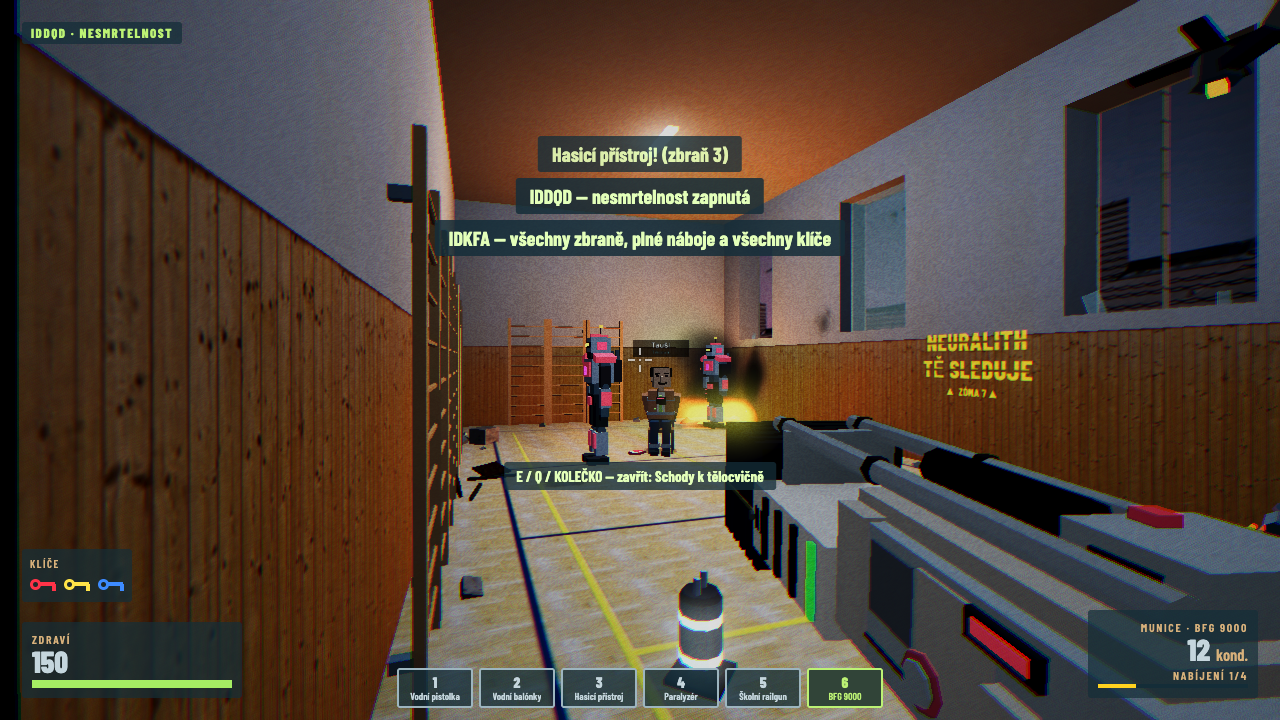
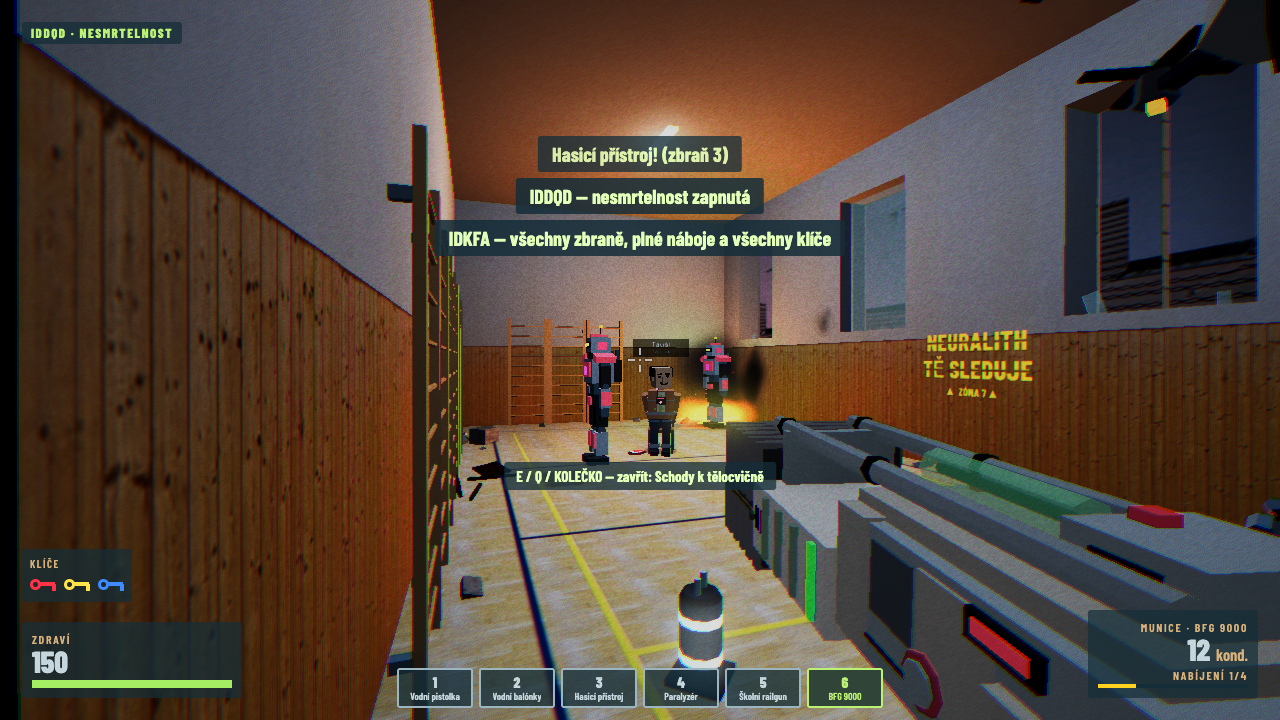
FEEDBACK: BFG unlit ribs grey-green, muzzle block grey ribbed plastic, the top tube is translucent glass that greens with every lit rib

diff --git a/src/weapons/Bfg9000.ts b/src/weapons/Bfg9000.ts
@@ -58,7 +58,8 @@ interface BlastInfo {
  * fire charges it in stages of `params.stageTime` s, one capacitor of the reserve shared with the railgun (`ammoType`)
  * per stage, up to `params.maxStages` — or fewer when the reserve holds fewer (the charge stops there, a deny click
  * plays, the extra ribs stay dark). The four ribs of the front block light up one per stage, back to front (the rib
- * charging ramps up, completed ones stay lit); the core in the muzzle glows with the charge, a rising whine plays per stage
+ * charging ramps up, completed ones stay lit); the core in the muzzle glows with the charge, the glass tube on top
+ * turns greener with every lit rib, a rising whine plays per stage
  * and the gun trembles more with every stage. Release fires a plasma ball (`PlasmaBalls`) of the completed stages n,
  * spending n capacitors; released before the first stage nothing fires and nothing is spent. Fully charged it waits,
  * pulsing softly (no overcharge). Switching weapons cancels the charge. The ball flies straight until it strikes
@@ -66,16 +67,17 @@ interface BlastInfo {
  * it and within `params.empVertical` m of its height (the same floor; walls do not stop it) takes `damage` electric —
  * enough for any robot on any difficulty — and robots farther out up to `params.stunRadiusN` freeze for
  * `params.stunSeconds`. The player and the teachers are never hurt. After a shot a short cooldown (1 / `fireRate`)
- * with the ribs and the core dark; then a chime (`sounds.ready`).
+ * with the ribs, the core and the tube dark; then a chime (`sounds.ready`).
  */
 export class Bfg9000 extends Weapon {
   private readonly balls: PlasmaBalls;
   private readonly blast: EmpBlast;
   private readonly effect: EffectData;
-  /** Glow colour of the ribs and the core (`effect.partColor`, else the ball's colour). */
+  /** Glow colour of the ribs, the core and the tube (`effect.partColor`, else the ball's colour). */
   private readonly partColor: string;
   private readonly core: Glowing;
   private readonly ribs: Glowing[];
+  private readonly tube: Glowing;
   private readonly shakeRandom: Random;
   private readonly stageTime: number;
   private readonly maxStages: number;
@@ -88,6 +90,7 @@ export class Bfg9000 extends Weapon {
   private readonly stunStrength: number;
   private readonly ribGlow: number;
   private readonly coreGlow: number;
+  private readonly tubeGlow: number;
   private readonly idleGlow: number;
   private readonly fullPulse: number;
   private readonly glowFade: number;
@@ -131,6 +134,7 @@ export class Bfg9000 extends Weapon {
     this.stunStrength = param("stunStrength");
     this.ribGlow = param("ribGlow");
     this.coreGlow = param("coreGlow");
+    this.tubeGlow = param("tubeGlow");
     this.idleGlow = param("idleGlow");
     this.fullPulse = param("fullPulse");
     this.glowFade = param("glowFade");
@@ -163,6 +167,7 @@ export class Bfg9000 extends Weapon {
     let index = 0;
     this.core = this.ownMaterial(model.core, index++);
     this.ribs = model.ribs.map((mesh) => this.ownMaterial(mesh, index++));
+    this.tube = this.ownMaterial(model.tube, index++);
     this.ribLevels = this.ribs.map(() => 0);
     this.updateGlow();
   }
@@ -278,7 +283,7 @@ export class Bfg9000 extends Weapon {
   override dispose(): void {
     this.balls.dispose();
     this.blast.dispose();
-    for (const { material } of [this.core, ...this.ribs]) material.dispose();
+    for (const { material } of [this.core, ...this.ribs, this.tube]) material.dispose();
     super.dispose();
   }
 
@@ -463,15 +468,20 @@ export class Bfg9000 extends Weapon {
     }
   }
 
-  /** Applies the shown glow; a held full charge (or the reserve's cap) pulses softly. */
+  /**
+   * Applies the shown glow: it replaces the part's own grey-green glow as it rises (a lit rib is clean green, not
+   * green on grey); a held full charge (or the reserve's cap) pulses softly.
+   */
   private updateGlow(): void {
     const t = this.context.game.simulatedTimeMs / MS_PER_SECOND;
     const waiting = this.charging && this.completed >= this.cap;
     const pulse = waiting ? 1 + this.fullPulse * Math.sin(t * FULL_PULSE_RATE) : 1;
     const apply = ({ material, base }: Glowing, level: number, full: number): void => {
-      material.emissiveColor = level > 0 ? base.add(PaletteColor.emissive(this.partColor, full * level * pulse)) : base;
+      material.emissiveColor = level > 0 ? base.scale(1 - Math.min(level, 1)).add(PaletteColor.emissive(this.partColor, full * level * pulse)) : base;
     };
     apply(this.core, this.coreLevel, this.coreGlow);
     this.ribs.forEach((rib, i) => apply(rib, this.ribLevels[i]!, this.ribGlow));
+    // The tube follows the lit ribs: a quarter green per rib, the greenest at a full charge.
+    apply(this.tube, this.ribLevels.reduce((sum, level) => sum + level, 0) / this.ribLevels.length, this.tubeGlow);
   }
 }

diff --git a/src/weapons/models/Bfg9000Model.ts b/src/weapons/models/Bfg9000Model.ts
@@ -6,16 +6,18 @@ import { ModelParts } from "../../rendering/ModelParts";
 import { ModelRegistry } from "../../utils/ModelRegistry";
 
 const BLUEPRINT = "bfg9000";
-/** Parts that glow with the charge: the emitter in the muzzle and the four ribs of the charge block (back to front). */
+/** Parts that glow with the charge: the emitter in the muzzle, the four ribs of the charge block (back to front), the glass tube on top. */
 const CORE = "core";
+const TUBE = "glassTube";
 const RIBS = ["rib1", "rib2", "rib3", "rib4"];
 
 /**
  * BFG 9000 (weapon 6, FEEDBACK 2026-10-04): the side-view BFG 9000 concept — a long silver-grey receiver (side LED panel,
- * round button, top tubes over the whole length, front grip, skeleton stock), a white charge block whose four ribs
+ * round button, top tubes over the whole length with a glass tube between them, front grip, skeleton stock), a white charge block whose four ribs
  * stand proud only on its sides (green and white stripes from the side) and a big black ribbed muzzle block (blueprint
  * `bfg9000`). Parameters: variant, colour overrides, scale, light scale. Exposes the muzzle and the glowing parts — the
- * emitter core in the muzzle and the four ribs (one lights up per charge stage, back to front) — which
+ * emitter core in the muzzle, the four ribs (one lights up per charge stage, back to front) and the glass tube (greener
+ * with every lit rib) — which
  * src/weapons/Bfg9000.ts lights with the charge and darkens after a shot.
  */
 export class Bfg9000Model {
@@ -25,7 +27,9 @@ export class Bfg9000Model {
   readonly core: Mesh;
   /** The charge block's ribs, back (`rib1`) to front (`rib4`): one per charge stage. */
   readonly ribs: readonly Mesh[];
-  /** Every glowing part: the core and the ribs. */
+  /** The translucent glass tube on top: turns green with the charge. */
+  readonly tube: Mesh;
+  /** Every glowing part: the core, the ribs and the glass tube. */
   readonly glowing: readonly Mesh[];
   private readonly built: BuiltModel;
 
@@ -37,7 +41,8 @@ export class Bfg9000Model {
     this.muzzle = parts.anchor("muzzle");
     this.core = parts.part(CORE);
     this.ribs = RIBS.map((name) => parts.part(name));
-    this.glowing = [this.core, ...this.ribs];
+    this.tube = parts.part(TUBE);
+    this.glowing = [this.core, ...this.ribs, this.tube];
   }
 
   dispose(): void {

diff --git a/tests/data/weapons-data.test.ts b/tests/data/weapons-data.test.ts
@@ -75,7 +75,7 @@ test("weapons.json: phase 13 weapons carry the numbers and looks their classes r
   need("taser", ["arcAngleDeg", "maxTargets", "stunSeconds", "stunStrength"]);
   need("railgun", ["pierce", "aimAssistDeg"]);
   const stages = [1, 2, 3, 4].flatMap((n) => [`empRadius${n}`, `stunRadius${n}`, `ballSize${n}`, `ballBrightness${n}`]);
-  need("bfg9000", ["stageTime", "maxStages", ...stages, "ballSpeed", "ballRadius", "ballHitRadius", "maxFlightTime", "empVertical", "stunSeconds", "shellTime", "ribGlow", "coreGlow", "idleGlow", "glowFade"]);
+  need("bfg9000", ["stageTime", "maxStages", ...stages, "ballSpeed", "ballRadius", "ballHitRadius", "maxFlightTime", "empVertical", "stunSeconds", "shellTime", "ribGlow", "coreGlow", "tubeGlow", "idleGlow", "glowFade"]);
   for (const id of ["extinguisher", "taser", "railgun", "bfg9000"]) assert.ok(WeaponConfig.weapon(id).effect !== undefined, `${id} needs an effect block`);
   for (const id of ["waterBalloons", "extinguisher"]) assert.ok(WeaponConfig.weapon(id).stream !== undefined, `${id} needs a stream block`);
 

diff --git a/src/weapons/WeaponConfig.ts b/src/weapons/WeaponConfig.ts
@@ -90,7 +90,7 @@ export interface StreamData {
 export interface EffectData {
   color: string;
   colorEnd: string;
-  /** Colour of the weapon's own glowing parts (the BFG's ribs and core); `color` when omitted. */
+  /** Colour of the weapon's own glowing parts (the BFG's ribs, core and glass tube); `color` when omitted. */
   partColor?: string;
   /** Colour multiplier of the particles (above 1 reaches the bloom threshold). */
   glow: number;

diff --git a/FEEDBACK.md b/FEEDBACK.md
@@ -133,3 +133,5 @@ Zapracováno 2026-10-04 (nový model z primitiv 940 trojúhelníků: široké te
 
 Zapracováno 2026-10-04 (nový model z primitiv 940 trojúhelníků podle bočního pohledu konceptu: dlouhé stříbrošedé pouzdro se šedým bočním panelem, červeným LED panelem, kulatým tlačítkem s červeným prstencem a zadní sponou, nahoře mířidlový blok a dvě trubky přes celou délku s černým válcem mezi nimi, vespod rukojeť a přední rukojeť s rýhami ///, vzadu kostrová pažba; před pouzdrem bílý nabíjecí blok, z jehož boků vystupují čtyři žebra — zelené a bílé pruhy, které se rozsvěcují po jednom; vpředu velký černý žebrovaný blok ústí s mosaznými tyčkami a oválným otvorem; zelené kapsle nahoře (průduchy) jsou pryč, nabití ukazují jen boční pruhy (a jádro v ústí); v ruce je zbraň víc vpravo s běžným natočením, míří dopředu a levý bok s tenkými, řídce rozmístěnými pruhy je vidět; snímky `screenshots/bfg-look-0.png`, `bfg-look-2.png`, `bfg-look-4.png`, `bfg-look-gallery.png`, `bfg-charge-1.png` … `bfg-charge-4.png`; testy `model-budget.spec.ts`, `bfg.spec.ts`, `weapons-all.spec.ts`; rozhodnutí v DECISIONS „FEEDBACK 2026-10-04 — BFG podle konceptu z boku“)
 - „Moc natočená, nevypadá, že míří dopředu. Nech normální natočení, pruhy tenčí a víc od sebe.“ Zapracováno 2026-10-04.
+- „Zhasnuté pruhy a předek zbraně jsou černočerné. Předek je spíš šedočerný žebrovaný plast a zhasnuté zelené pruhy mají být šedší, aby to vypadalo věrohodně.“ Zapracováno 2026-10-04 (zhasnutá žebra šedozelená, blok ústí šedý plast nad tmavším jádrem, rozsvícená žebra zůstala čistě zelená).
+- „Prostřední trubice je taky černočerná. Má být světlejší, třeba průsvitné sklo, a při nabíjení zelenat, 4 pruhy = nejzelenější.“ Zapracováno 2026-10-04 (mátová skleněná trubice s vláknem, zezelená o čtvrtinu za každé rozsvícené žebro).

diff --git a/DECISIONS.md b/DECISIONS.md
@@ -577,3 +577,5 @@ Měřeno ve hře, ne spočítáno: `tests/e2e/weapons-balance.spec.ts` v nové d
 - **`CompileCounter` zapisuje i nové WebGPU pipeline (efekt, render target, formáty, MSAA, blending, hloubka, culling, mesh při `perf.trace(true)`, klíč cache) a `perf-combat.spec.ts` je při selhání vypíše:** „1 pipeline“ bez stavu kreslení nešlo vystopovat. Popis se skládá jen při vzniku pipeline, ta je sama o řády dražší.
 - **Slučování dílů robotů (úloha 2, Nízké s CPU 4×) se nedělalo:** `perf.spec.ts` test 4 dnes prochází i bez něj (32–33 fps, i na cafaee4). Díly jsou samostatné cíle zásahu, trosky po zničení a nosiče mokrých skvrn, takže sloučení by změnilo rozpad robota a zásahy, což zadání vylučuje.
 - **FEEDBACK 2026-10-04 — BFG podle konceptu z boku:** žebra nabíjecího bloku jsou nižší než blok a přečnívají jen do stran, průduchy (zelené kapsle nahoře) i `ventGlow` zmizely a viewmodel drží zbraň dál vpravo (x 0,4) jen s běžným natočením −5°, aby levý bok s pruhy byl vidět perspektivou a zbraň přitom mířila dopředu; žebra jsou tenká (12 mm) s roztečí 6 cm, protože z tohoto úhlu se zkracují a husté splývají.
+- **BFG: zhasnutá žebra šedozelená (`world.ribGreen` #647a6b, emissive 0,55) a blok ústí šedý plast (`world.concrete` 0,6 / `base.ash` 0,4), rozsvícení žeber jejich vlastní svit nahrazuje místo přičítání:** zbraň v ruce má jen 40 % světla (`lightScale` 0,4), takže tmavé díly bez vlastního svitu byly černé, a přičtená zelená na šedém základu by byla bledě mátová.
+- **BFG: černý válec nahoře je skleněná trubice (`world.tileMint`, alpha 0,55, tmavé vlákno uvnitř), která zezelená o čtvrtinu za každé rozsvícené žebro (`params.tubeGlow`):** černý byl pod ztlumeným světlem zbraně jen díra a podíl rozsvícených žeber dává druhý, shora viditelný ukazatel nabití bez nového stavu.
